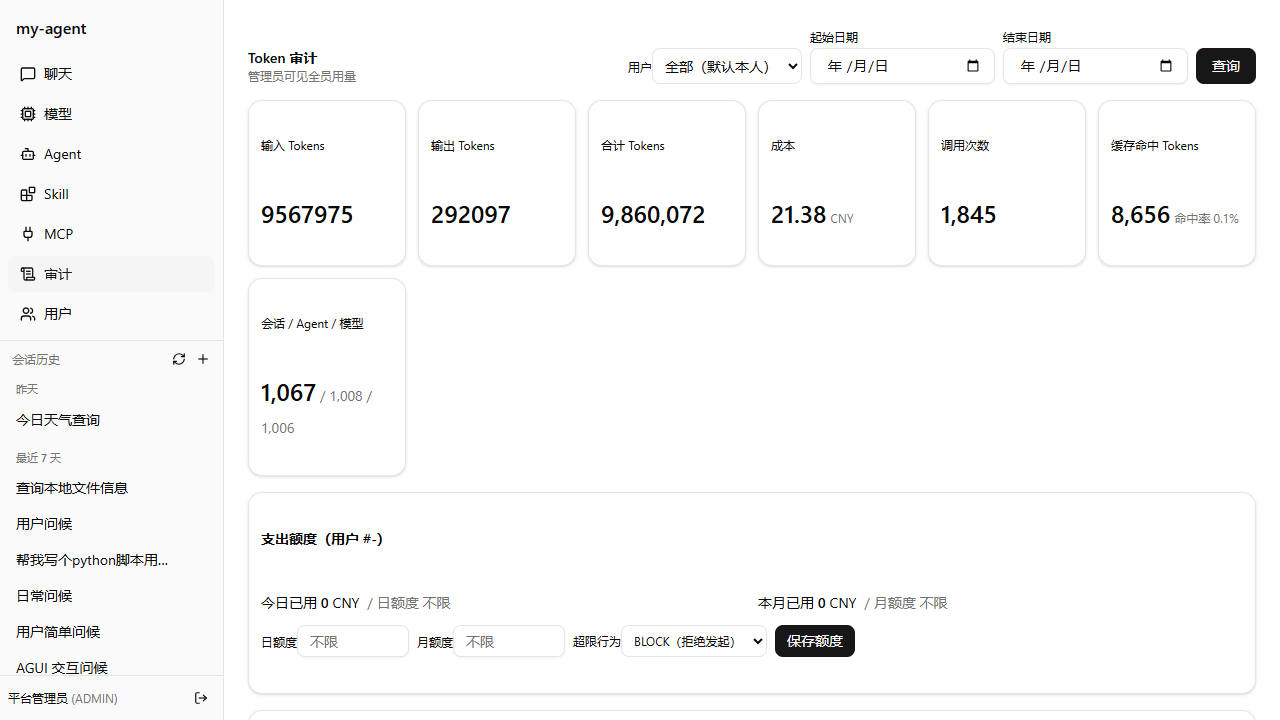
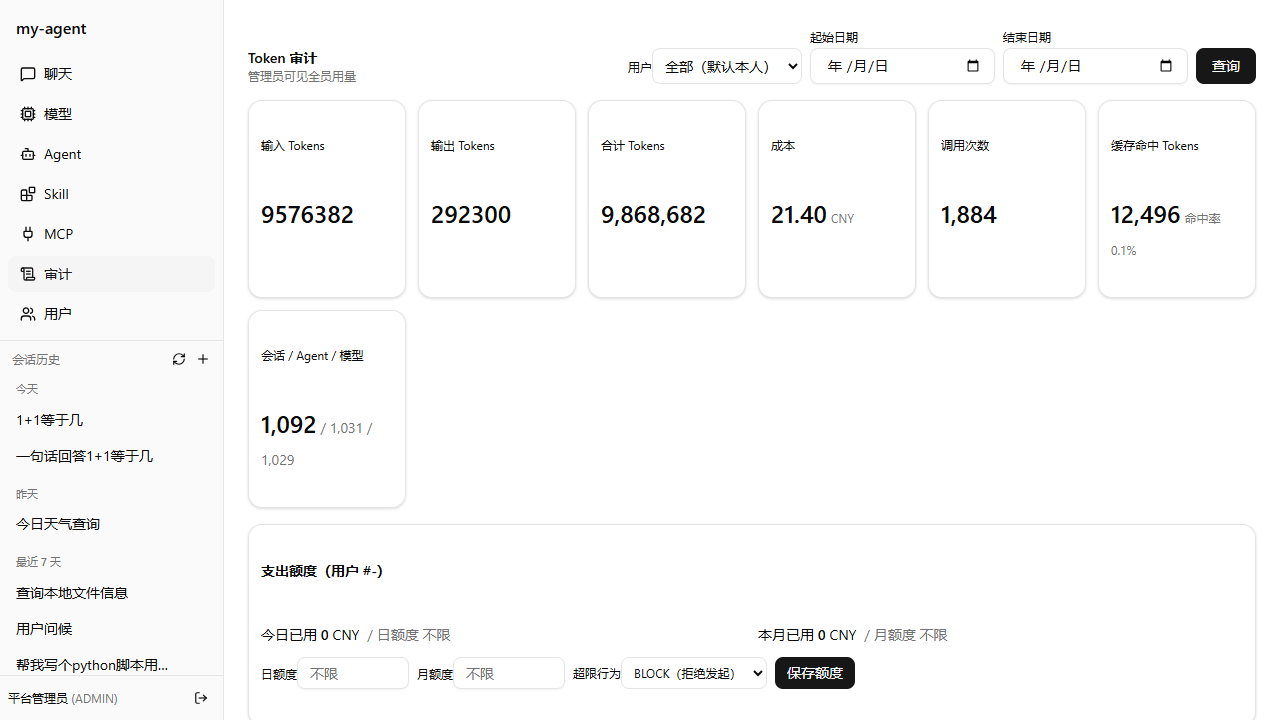
fix(quota): 配额成本口径与审计对齐（原先漏了缓存命中那一项）
## 问题（真 bug，我上一轮改成本口径时漏改了一处）

审计的 `byModel` 已改成**分类口径**：
    未命中输入 × 入价  +  缓存命中 × (缓存价 ?? 入价)  +  输出 × 出价
但**配额**用的 `costInRange` 还是旧公式：
    prompt_tokens × 入价  +  completion_tokens × 出价
→ 缓存命中那部分会被按**入价**计（当配了更便宜的缓存价时，配额算得比审计高）。
即"配额算的钱"与"审计显示的钱"不是一回事 —— 与用户此前反馈的"数据对不上"属同一类问题。

## 修复

`TokenUsageMapper.costInRange` 改用与 `byModel` **完全相同的分类表达式**（含
`coalesce(m.price_cache, m.price_input, 0)` 的缓存项），两处口径由同一套公式保证一致。

## 实测（真实数据，真库）

    [口径对比] 配额 usedToday = 0.016144 CNY
    [口径对比] 审计 今日 costTotal = 0.016144 CNY          ← 二者相等 ✓
    [口径对比] 审计分类 输入/缓存/输出 = 0.00832 / 0.00768 / 0.000144
              （三项之和 = 0.016144 = 合计 ✓）

顺带确认：**真实模型调用确实产生了缓存命中**（costCache 非 0，DeepSeek 的 prompt cache 生效），
且缓存 token/成本链路对真实厂商响应成立。

后端 mvn clean verify **158 通过 / BUILD SUCCESS**。

diff --git a/backend/agent-server/src/main/java/com/myagent/audit/mapper/TokenUsageMapper.java b/backend/agent-server/src/main/java/com/myagent/audit/mapper/TokenUsageMapper.java
@@ -164,7 +164,12 @@ public interface TokenUsageMapper extends BaseMapper<TokenUsage> {
     @Select("""
             <script>
             SELECT coalesce(sum(
-                       t.prompt_tokens     / 1000000.0 * coalesce(m.price_input, 0)
+                       -- 与 byModel 用**同一套分类口径**：未命中输入 + 缓存命中(按缓存价，缺省退回输入价) + 输出
+                       -- （原先这里少了缓存那一项，导致"配额算的钱"与"审计显示的钱"不一致）
+                       greatest(t.prompt_tokens - t.cache_tokens, 0) / 1000000.0
+                           * coalesce(m.price_input, 0)
+                     + t.cache_tokens / 1000000.0
+                           * coalesce(m.price_cache, m.price_input, 0)
                      + t.completion_tokens / 1000000.0 * coalesce(m.price_output, 0)
                    ), 0) AS cost_total
             FROM token_usage t
